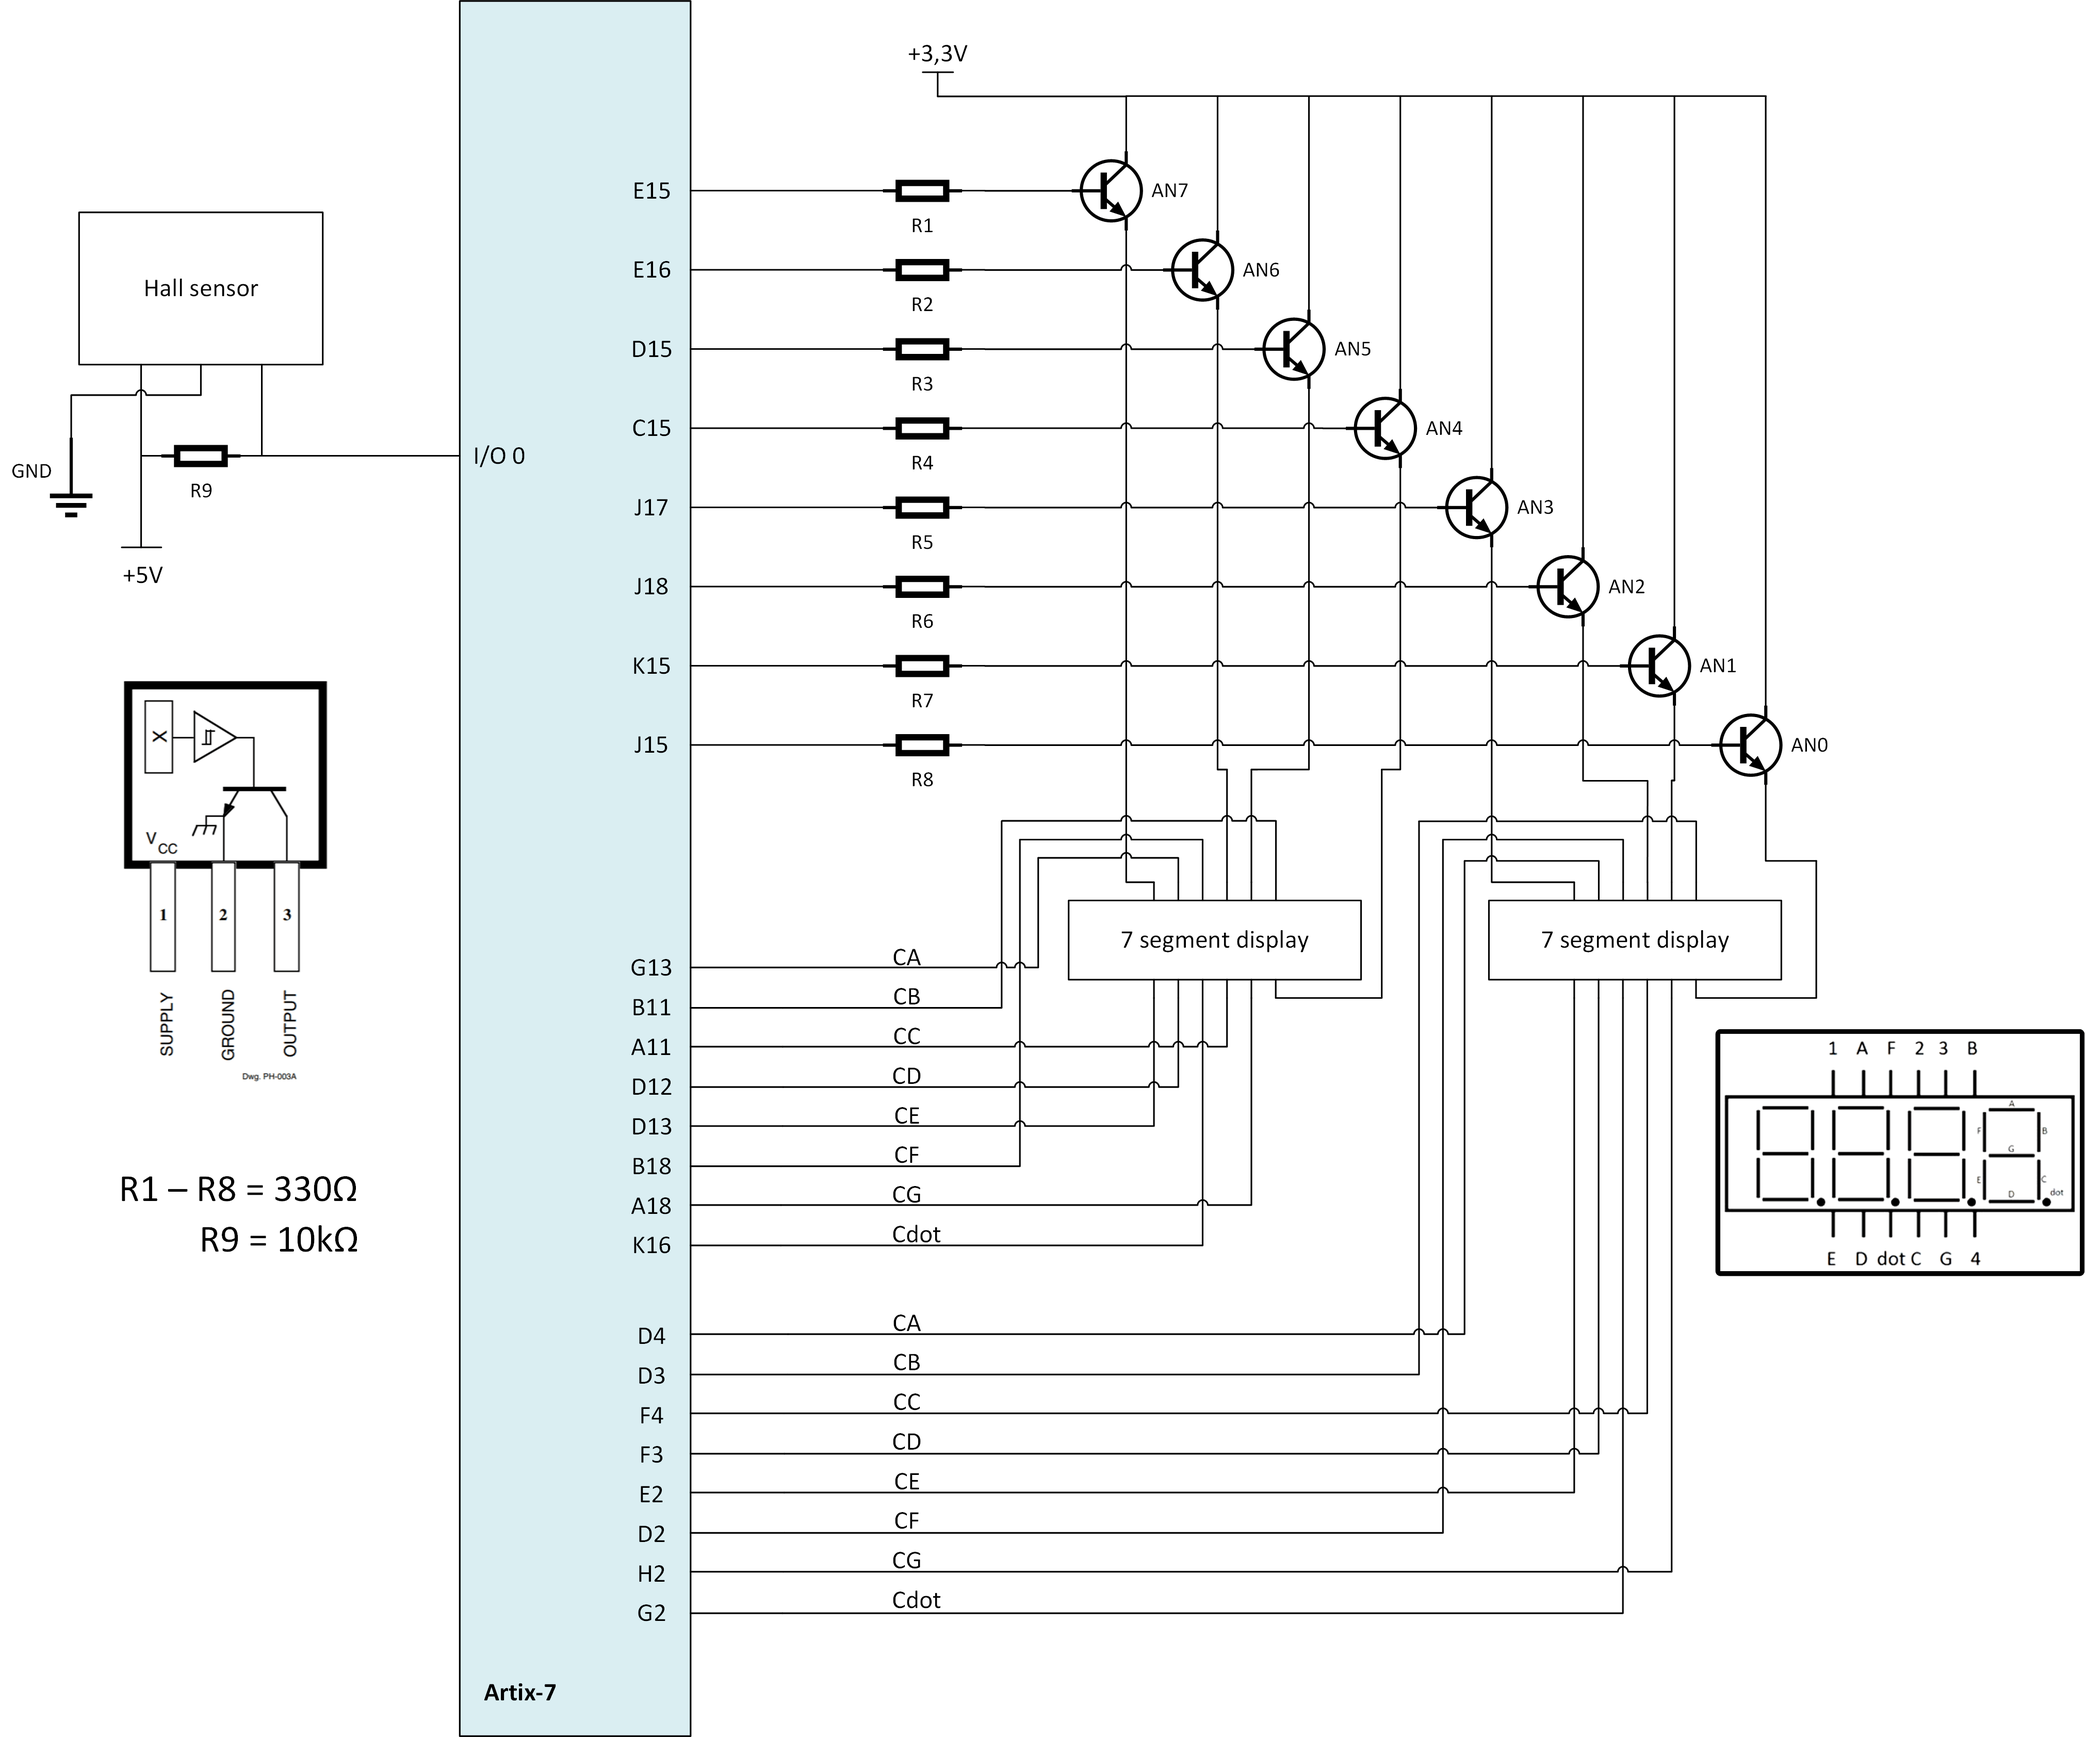
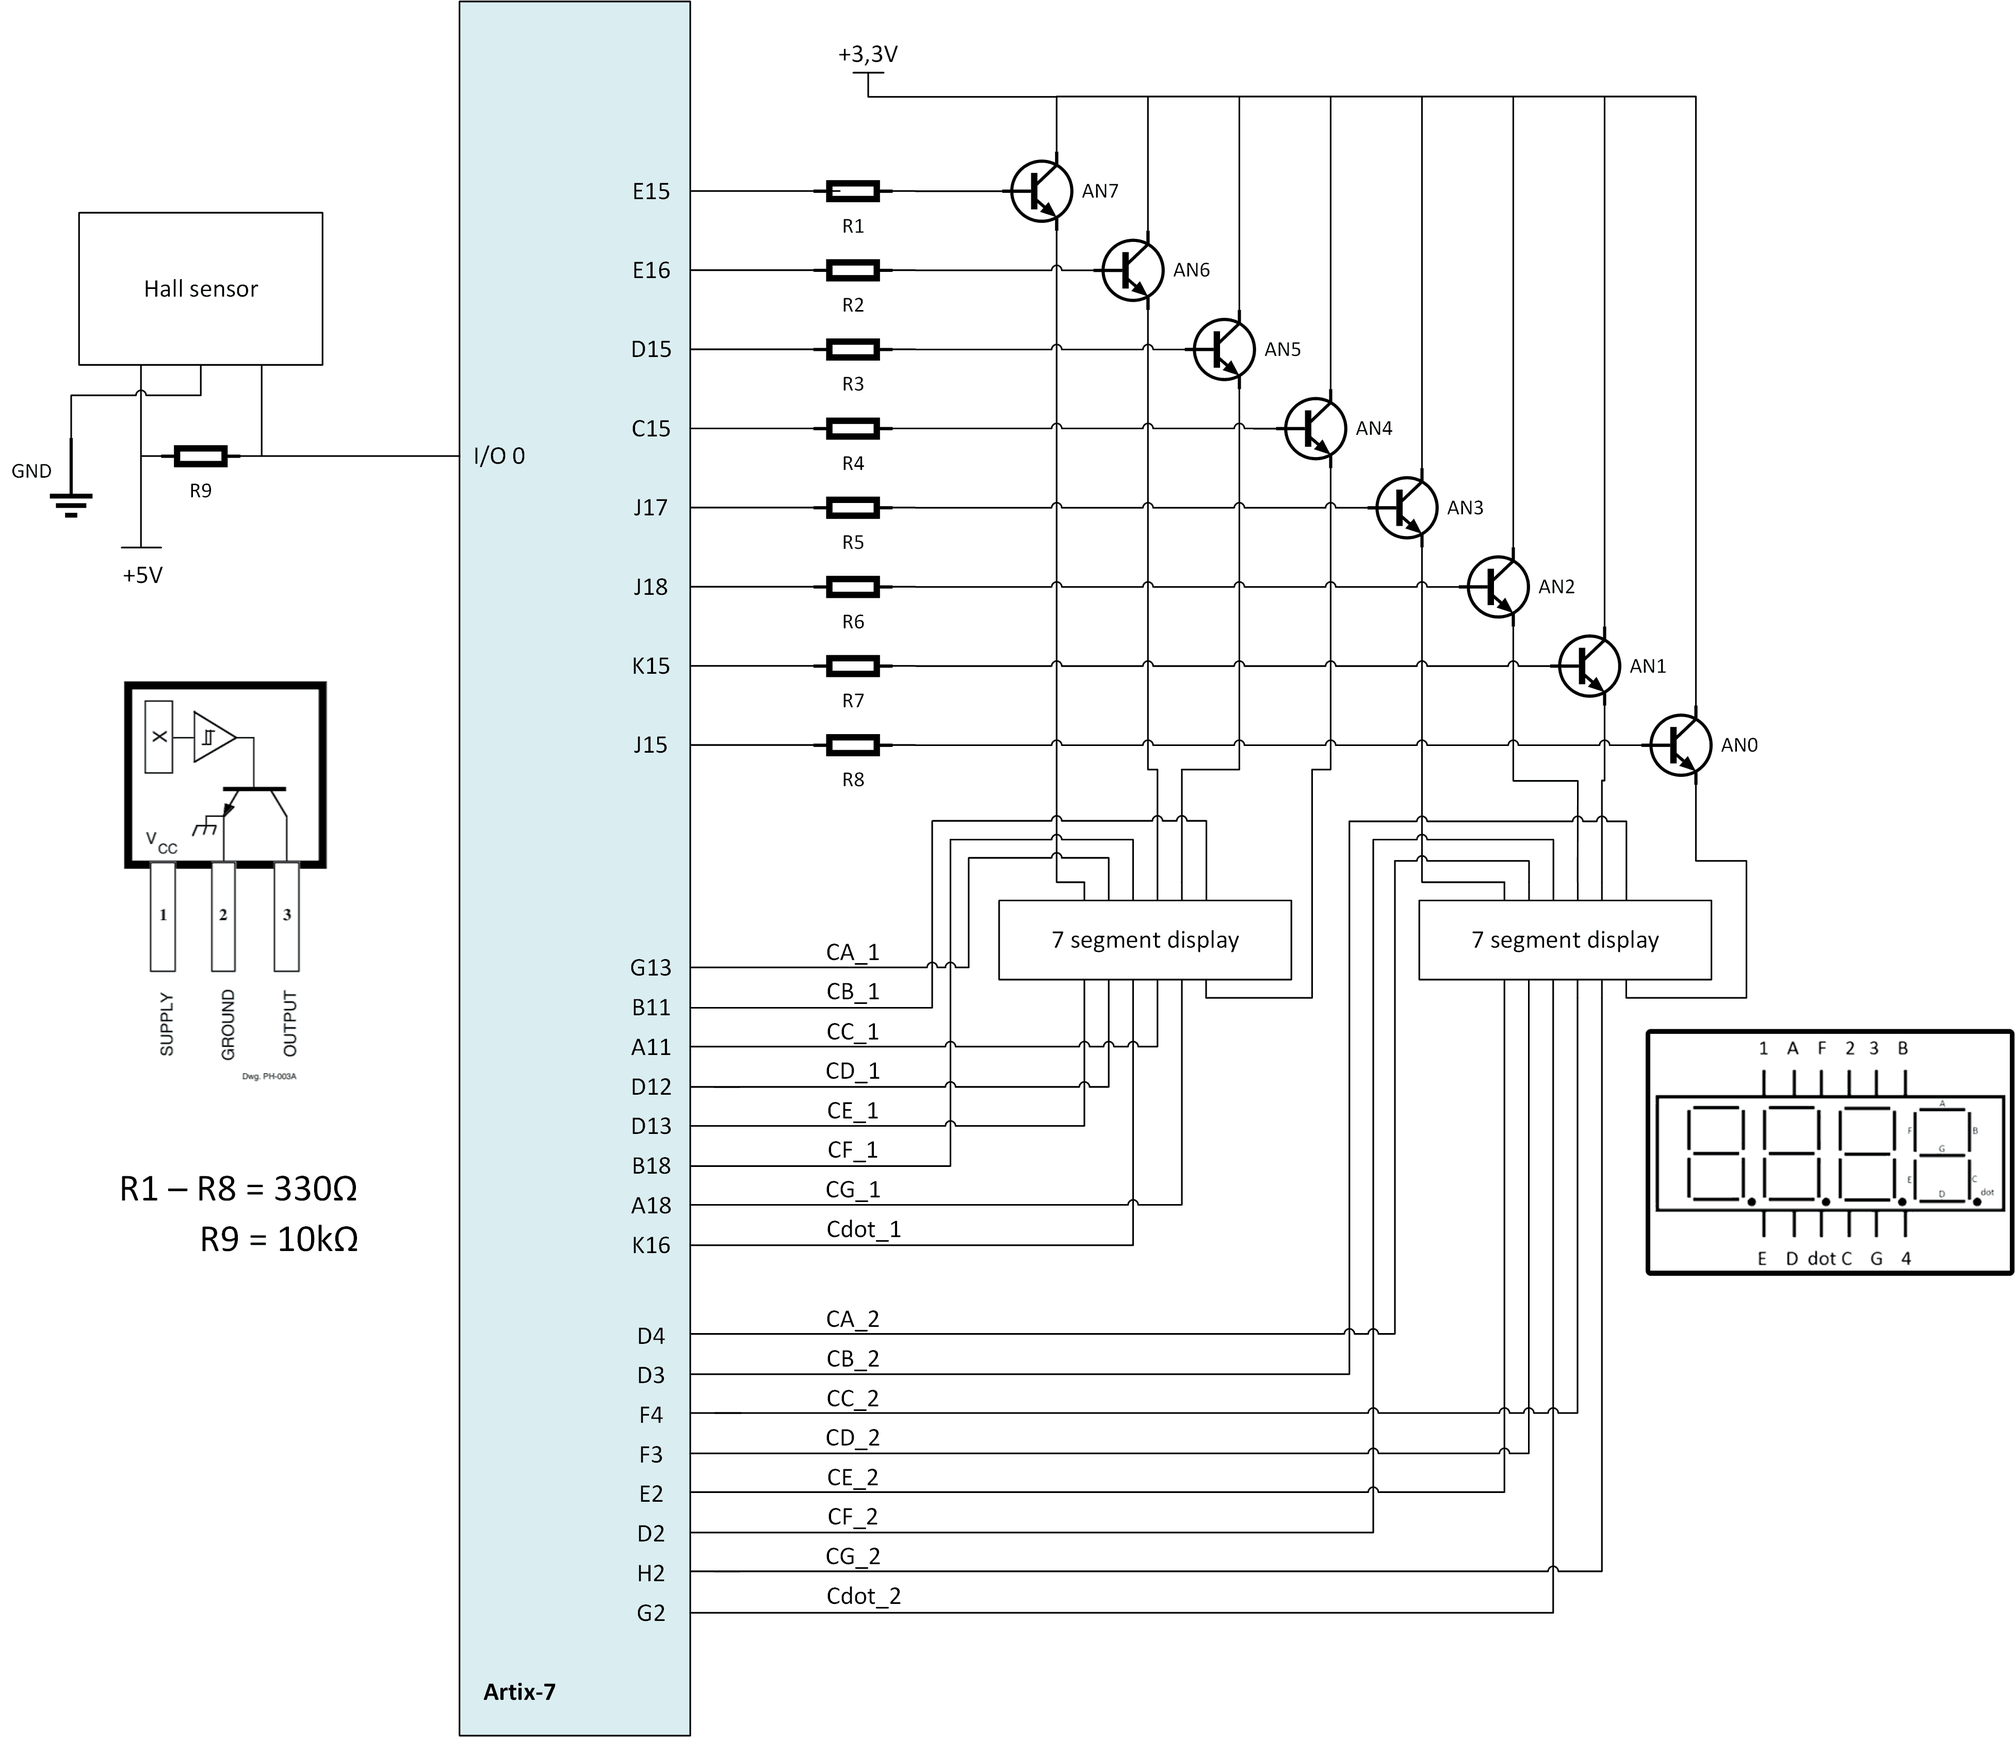
cathodes rename

diff --git a/Rozboud - HW/README.md b/Rozboud - HW/README.md
@@ -41,14 +41,14 @@ diody u 7seg jsou ošetřené pomocí 200 Ohm rezistorů které jsou zabudované
 
 |Pmod JA (standard)|Connection|Cathodes | Pmod  JD (standard) | Connection |Cathodes| Pmod JB (High-Speed) | Connection | Anodes |
 | :--: | :--: | :--: | :--: | :--: | :--: | :--: | :--: | :--: |
-| Pin 1 | G13 | CA | Pin 1 | D4 | CA | Pin 1 | E15 | AN7 |
-| Pin 2 | B11 | CB | Pin 2 | D3 | CB | Pin 2 | E16 | AN6 |
-| Pin 3 | A11 | CC | Pin 3 | F4 | CC | Pin 3 | D15 | AN5 |
-| Pin 4 | D12 | CD | Pin 4 | F3 | CD | Pin 4 | C15 | AN4 |
-| Pin 7 | D13 | CE | Pin 7 | E2 | CE | Pin 7 | J17 | AN3 |
-| Pin 8 | B18 | CF | Pin 8 | D2 | CF | Pin 8 | J18 | AN2 |
-| Pin 9 | A18 | CG | Pin 9 | H2 | CG | Pin 9 | K15 | AN1 |
-| Pin 10 | K16 | Cdot | Pin 10 | G2 | Cdot | Pin 10 | J15 | AN0 |
+| Pin 1 | G13 | CA_1 | Pin 1 | D4 | CA_2 | Pin 1 | E15 | AN7 |
+| Pin 2 | B11 | CB_1 | Pin 2 | D3 | CB_2 | Pin 2 | E16 | AN6 |
+| Pin 3 | A11 | CC_1 | Pin 3 | F4 | CC_2 | Pin 3 | D15 | AN5 |
+| Pin 4 | D12 | CD_1 | Pin 4 | F3 | CD_2 | Pin 4 | C15 | AN4 |
+| Pin 7 | D13 | CE_1 | Pin 7 | E2 | CE_2 | Pin 7 | J17 | AN3 |
+| Pin 8 | B18 | CF_1 | Pin 8 | D2 | CF_2 | Pin 8 | J18 | AN2 |
+| Pin 9 | A18 | CG_1 | Pin 9 | H2 | CG_2 | Pin 9 | K15 | AN1 |
+| Pin 10 | K16 | Cdot_1 | Pin 10 | G2 | Cdot_2 | Pin 10 | J15 | AN0 |
 
 ### Hall sensor
 
